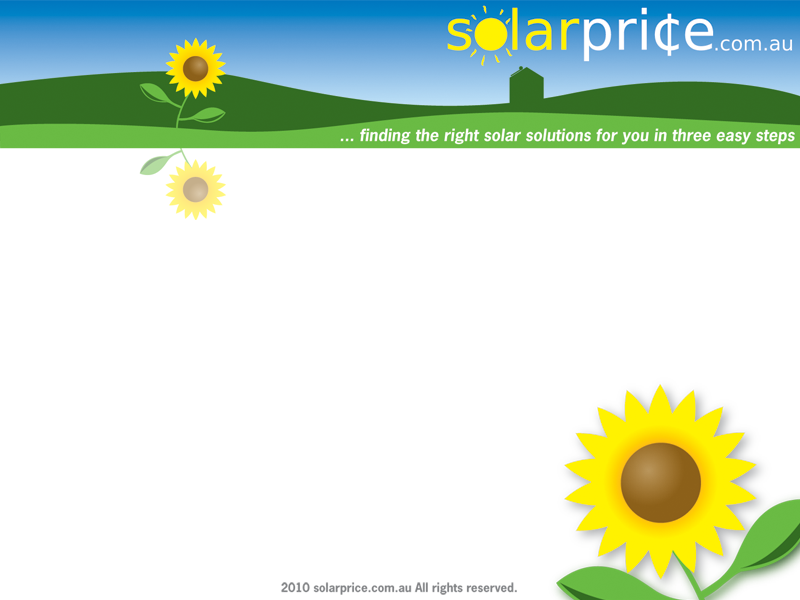
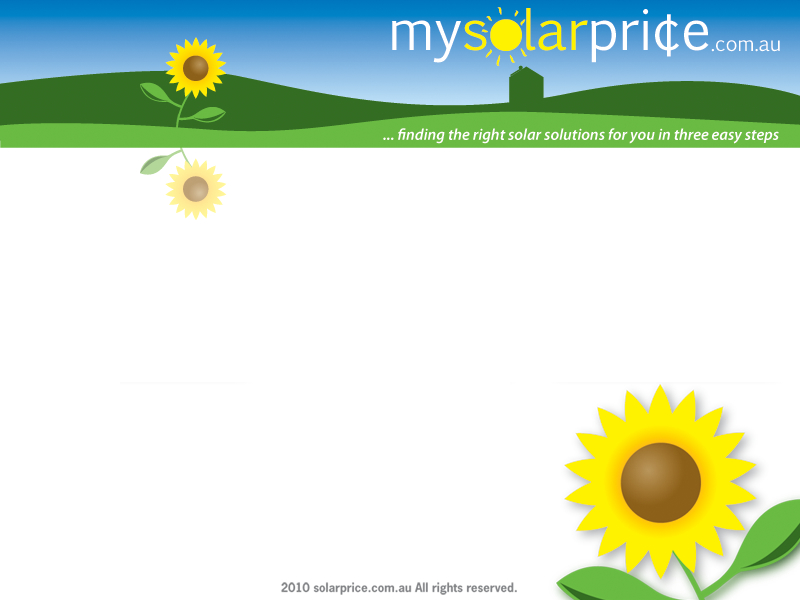
styling added

diff --git a/public/stylesheets/application.css b/public/stylesheets/application.css
@@ -2,6 +2,7 @@ body {
   background-color: #4B7399;
   font-family: Verdana, Helvetica, Arial;
   font-size: 13px;
+  color: green;
 }
 
 a img {
@@ -24,7 +25,7 @@ a {
   background-image: url(../../images/pageback.png);
   margin-left: auto;
   margin-right: auto;
-  padding-top: 215px;
+  padding-top: 165px;
   background-repeat: no-repeat;
 }
 
@@ -86,6 +87,8 @@ h1{
   font-weight: bold;
   text-decoration: underline;
   padding-left: 20px;
+  margin-top: 65px;
+  
 }
 
 p{

diff --git a/app/models/mailer.rb b/app/models/mailer.rb
@@ -1,14 +1,14 @@
 class Mailer < ActionMailer::Base
   
 
-  def supplier_lead(postcode, select_product, site_details, site_survey, sizing, sent_at = Time.now)
+  def supplier_lead(postcode, sent_at = Time.now)
     subject    'New lead from mysolarprice.com.au'
     recipients 'test1@busigeeks.com.au'
 #    from       'lead-generator@mysolarprice.com.au'
     from       'test1@busigeeks.com.au'
     sent_on    sent_at
     
-    body       :greeting => 'Hi,'
+    body       :postcode => postcode
   end
 
   def thankyou(sent_at = Time.now)

diff --git a/app/controllers/sizings_controller.rb b/app/controllers/sizings_controller.rb
@@ -14,7 +14,7 @@ class SizingsController < ApplicationController
   def create
     @sizing = Sizing.new(params[:sizing])
     if @sizing.save
-      Mailer.deliver_supplier_lead @postcodes, @select_product, @site_details, @site_survey, @sizing
+      Mailer.deliver_supplier_lead @postcode
 #      flash[:notice] = "Successfully created sizing."
 #      redirect_to :controller => "postcode", :action => "new"
       redirect_to "/thankyou.html"
